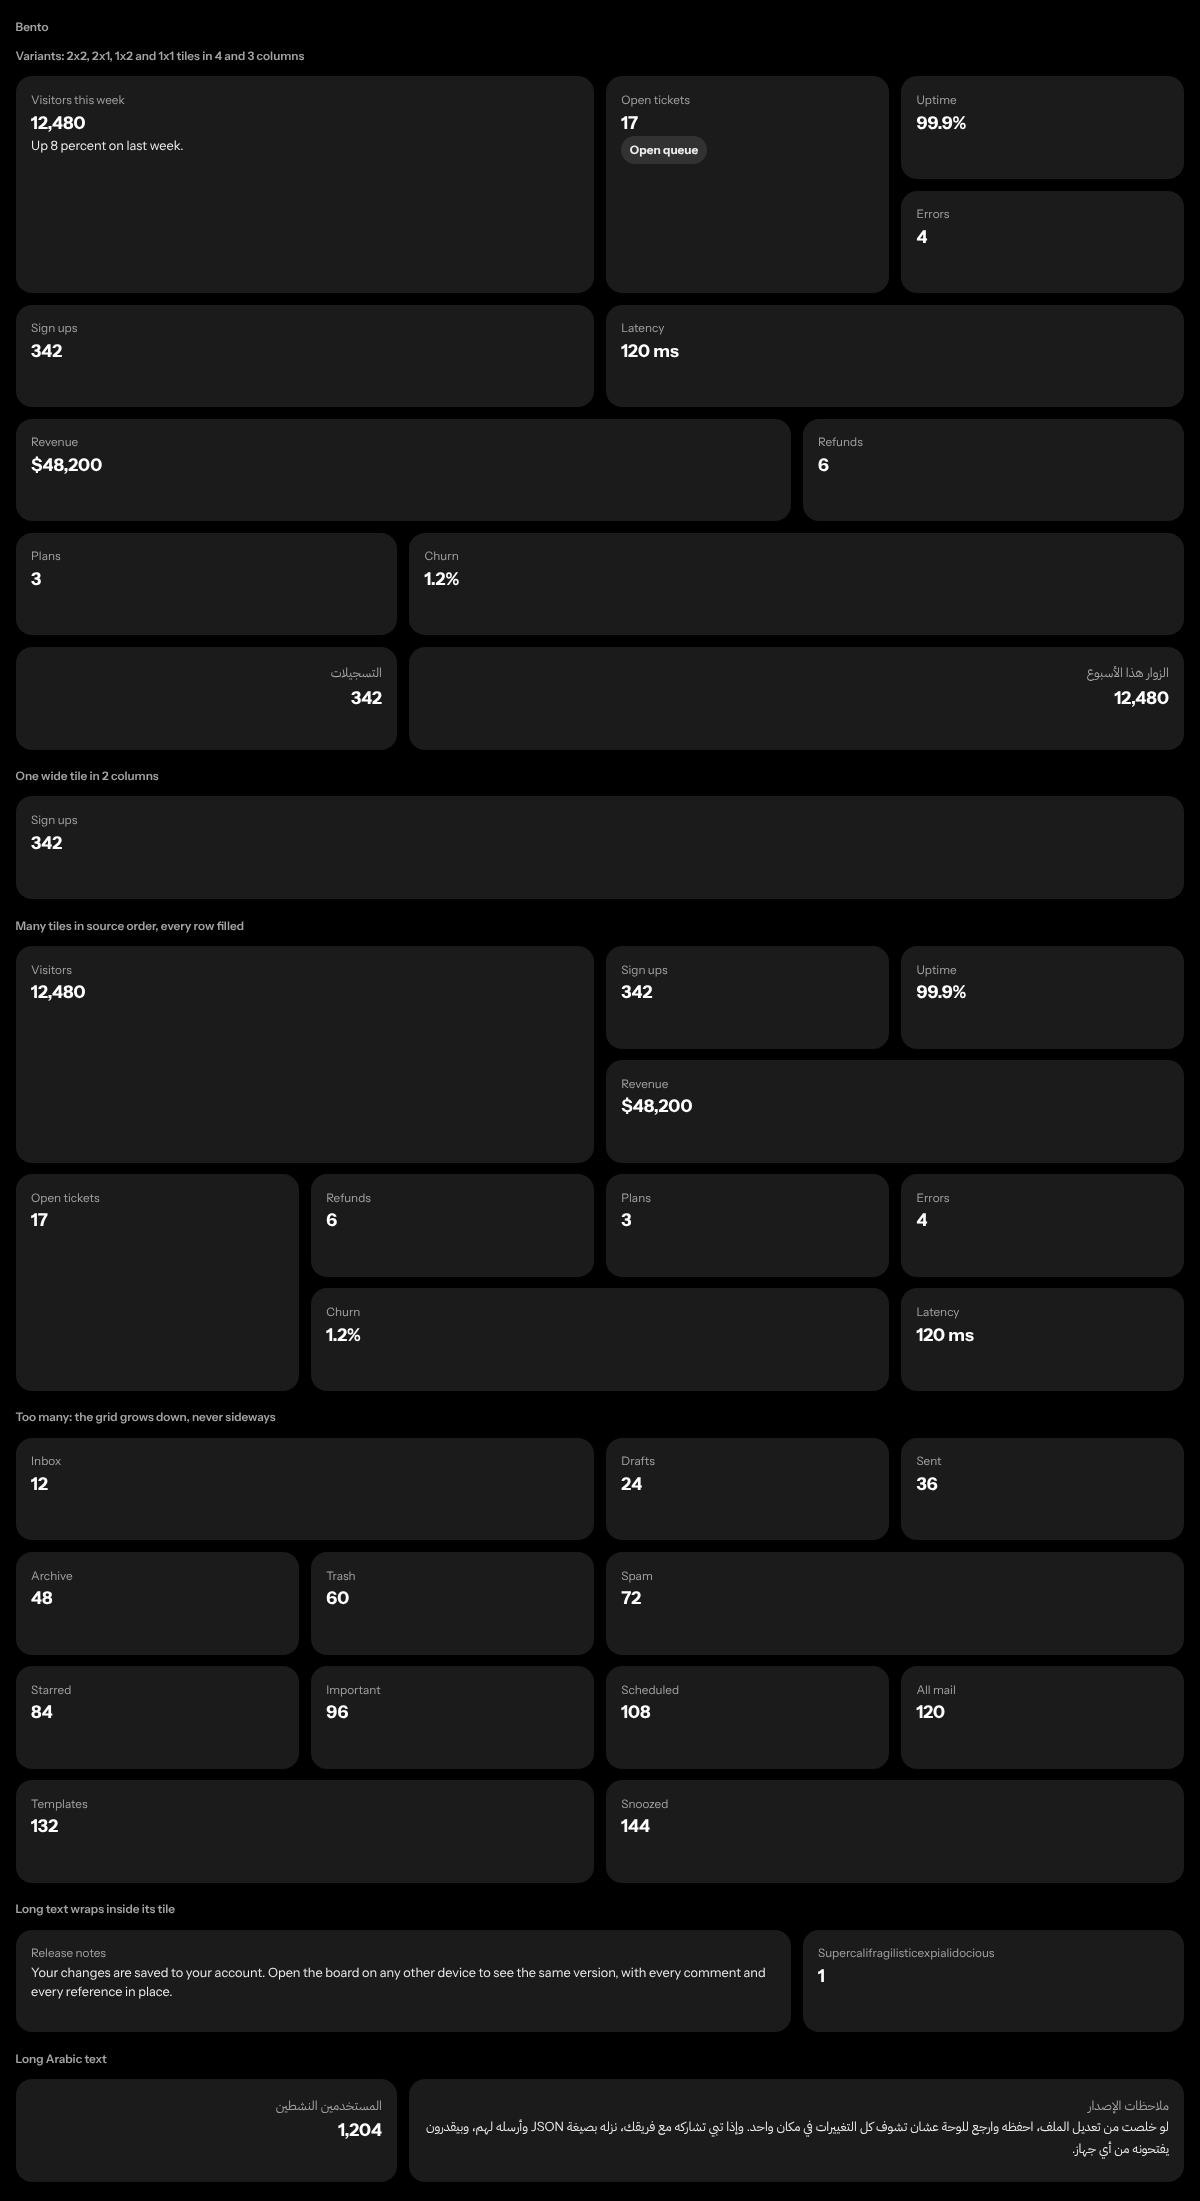
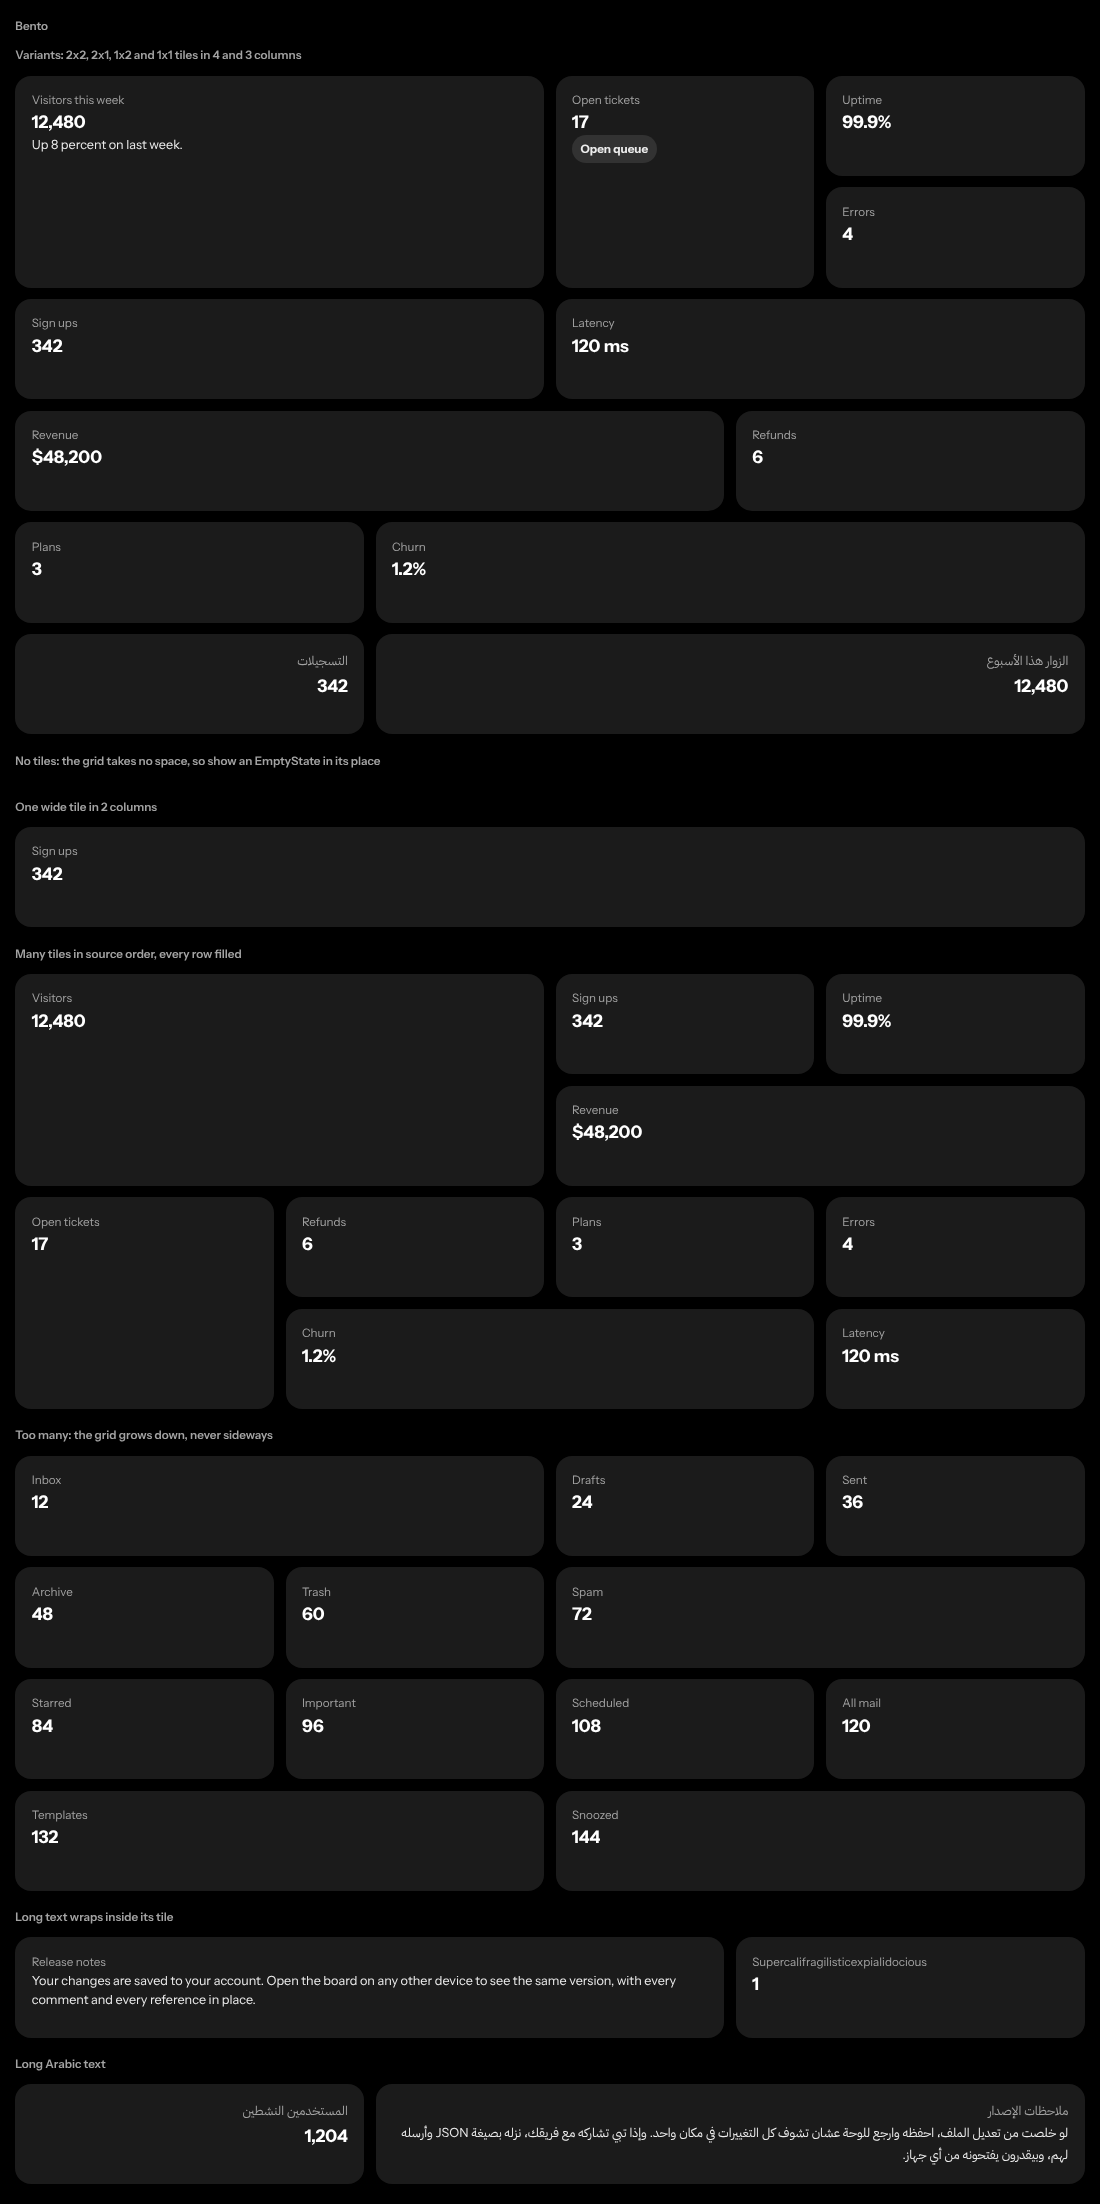
fix-8: Bento
Manifest says why Bento names no motion pattern. as ul sets role list.
Forced colors edge is a transparent border at rest, not an outline. Empty
demo case. insteadUse no longer sends tiles to ResizablePanels.

Claude-Session: https://claude.ai/code/session_01ErLBsdNKL8hgeVbwciEbpg

diff --git a/packages/react/src/components/Bento/Bento.test.tsx b/packages/react/src/components/Bento/Bento.test.tsx
@@ -1,5 +1,7 @@
 import { render } from '@testing-library/react';
 import { createRef } from 'react';
+import { readFileSync } from 'node:fs';
+import { join } from 'node:path';
 import { describe, expect, it } from 'vitest';
 import BentoDemo from './Bento.demo';
 import { Bento, BentoItem } from './index';
@@ -57,9 +59,24 @@ describe('Bento', () => {
     expect(itemRef.current).toBe(items[0]);
   });
 
+  it('gives a ul the list role, since list-style none drops it in Safari', () => {
+    const list = root(render(<Bento as="ul" />).container);
+    expect(list.getAttribute('role')).toBe('list');
+    expect(root(render(<Bento />).container).hasAttribute('role')).toBe(false);
+    expect(root(render(<Bento as="section" />).container).hasAttribute('role')).toBe(false);
+  });
+
+  it('says in the manifest why it names no motion pattern', () => {
+    const manifest = JSON.parse(readFileSync(join(process.cwd(), 'packages/manifest/src/component/Bento.manifest.json'), 'utf8')) as {
+      motion?: string | null;
+      frameworks: { react: { note?: string } };
+    };
+    if (manifest.motion == null) expect(manifest.frameworks.react.note ?? '').toMatch(/no motion/i);
+  });
+
   it('renders every demo case', () => {
     const { container } = render(<BentoDemo />);
-    for (const id of ['variants', 'one', 'many', 'too-many', 'long-text', 'long-arabic']) {
+    for (const id of ['variants', 'empty', 'one', 'many', 'too-many', 'long-text', 'long-arabic']) {
       expect(container.querySelector(`[data-demo-case="${id}"]`)).not.toBeNull();
     }
   });

diff --git a/packages/css/src/components/Bento.css b/packages/css/src/components/Bento.css
@@ -54,6 +54,8 @@
     min-inline-size: 0;
     margin: 0;
     padding: var(--_bento-item-padding);
+    /* Transparent at rest; forced colors paint it, so the edge needs no outline. */
+    border: var(--ds-border-width-default) solid transparent;
     border-radius: var(--_bento-item-radius);
     background-color: var(--_bento-item-bg);
     color: var(--_bento-item-fg);
@@ -89,12 +91,10 @@
     }
   }
 
-  /* Forced colors drop the fills: draw each tile's edge. */
+  /* Forced colors drop the fills: the transparent border becomes each tile's edge, inside the tile, so the Studio clip does not cut it. */
   @media (forced-colors: active) {
     [data-ds='bento'] > [data-part='item'] {
-      outline: var(--ds-border-width-default) solid CanvasText;
-      /* Inside the tile, so the Studio clip on the grid does not cut the outer edge. */
-      outline-offset: calc(-1 * var(--ds-border-width-default));
+      border-color: CanvasText;
     }
   }
 }

diff --git a/packages/react/src/components/Bento/Bento.tsx b/packages/react/src/components/Bento/Bento.tsx
@@ -39,7 +39,11 @@ export interface BentoItemProps extends Omit<HTMLAttributes<HTMLElement>, 'title
 export function Bento({ columns = 4, as = 'div', ref, ...rest }: BentoProps) {
   // Every allowed element takes the same props; narrow to one for the checker.
   const Element = as as 'div';
-  return <Element {...rest} ref={ref as Ref<HTMLDivElement>} data-ds="bento" data-columns={String(columns)} />;
+  // list-style none drops the list role in Safari: set it again, as Stack and Grid do.
+  const role = as === 'ul' ? 'list' : undefined;
+  return (
+    <Element role={role} {...rest} ref={ref as Ref<HTMLDivElement>} data-ds="bento" data-columns={String(columns)} />
+  );
 }
 
 /** One tile. */

diff --git a/packages/react/src/components/Bento/Bento.demo.tsx b/packages/react/src/components/Bento/Bento.demo.tsx
@@ -49,6 +49,10 @@ export default function BentoDemo() {
         </div>
       </DemoCase>
 
+      <DemoCase id="empty" title="No tiles: the grid takes no space, so show an EmptyState in its place">
+        <Bento as="ul" aria-label="Overview" />
+      </DemoCase>
+
       <DemoCase id="one" title="One wide tile in 2 columns">
         <Bento as="ul" columns={2}>
           <Tile span="2x1" name="Sign ups" figure="342" />
